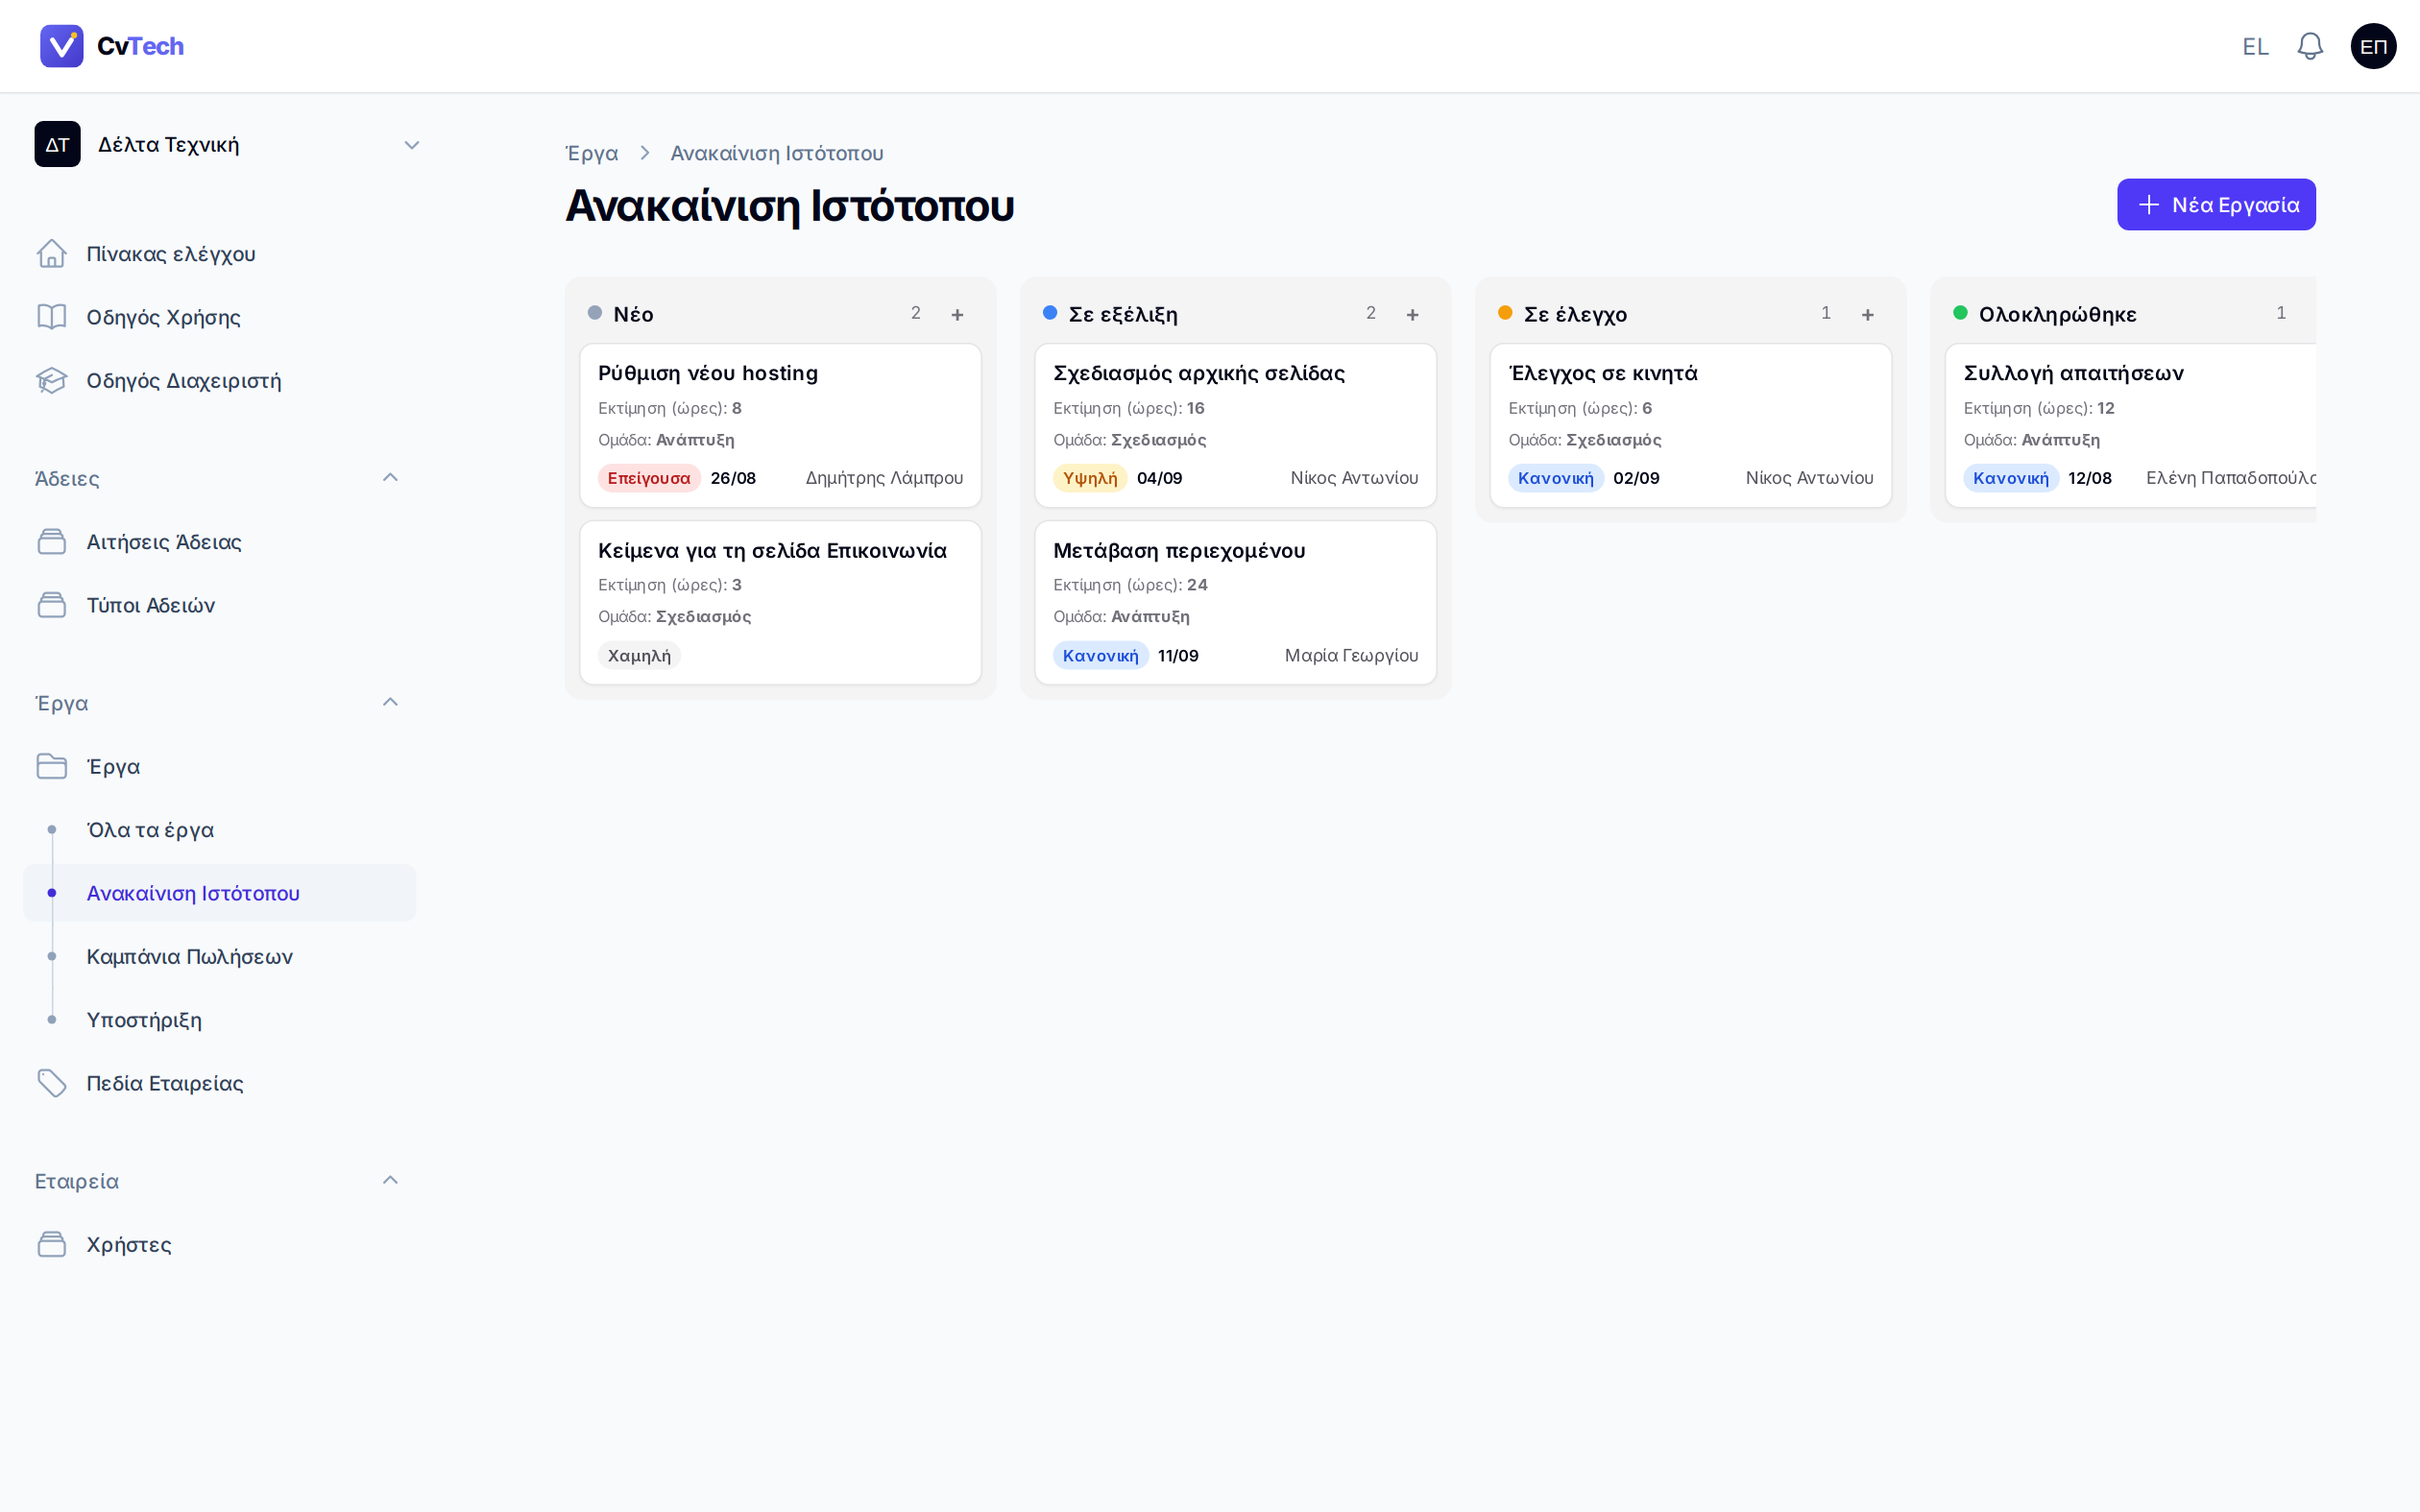
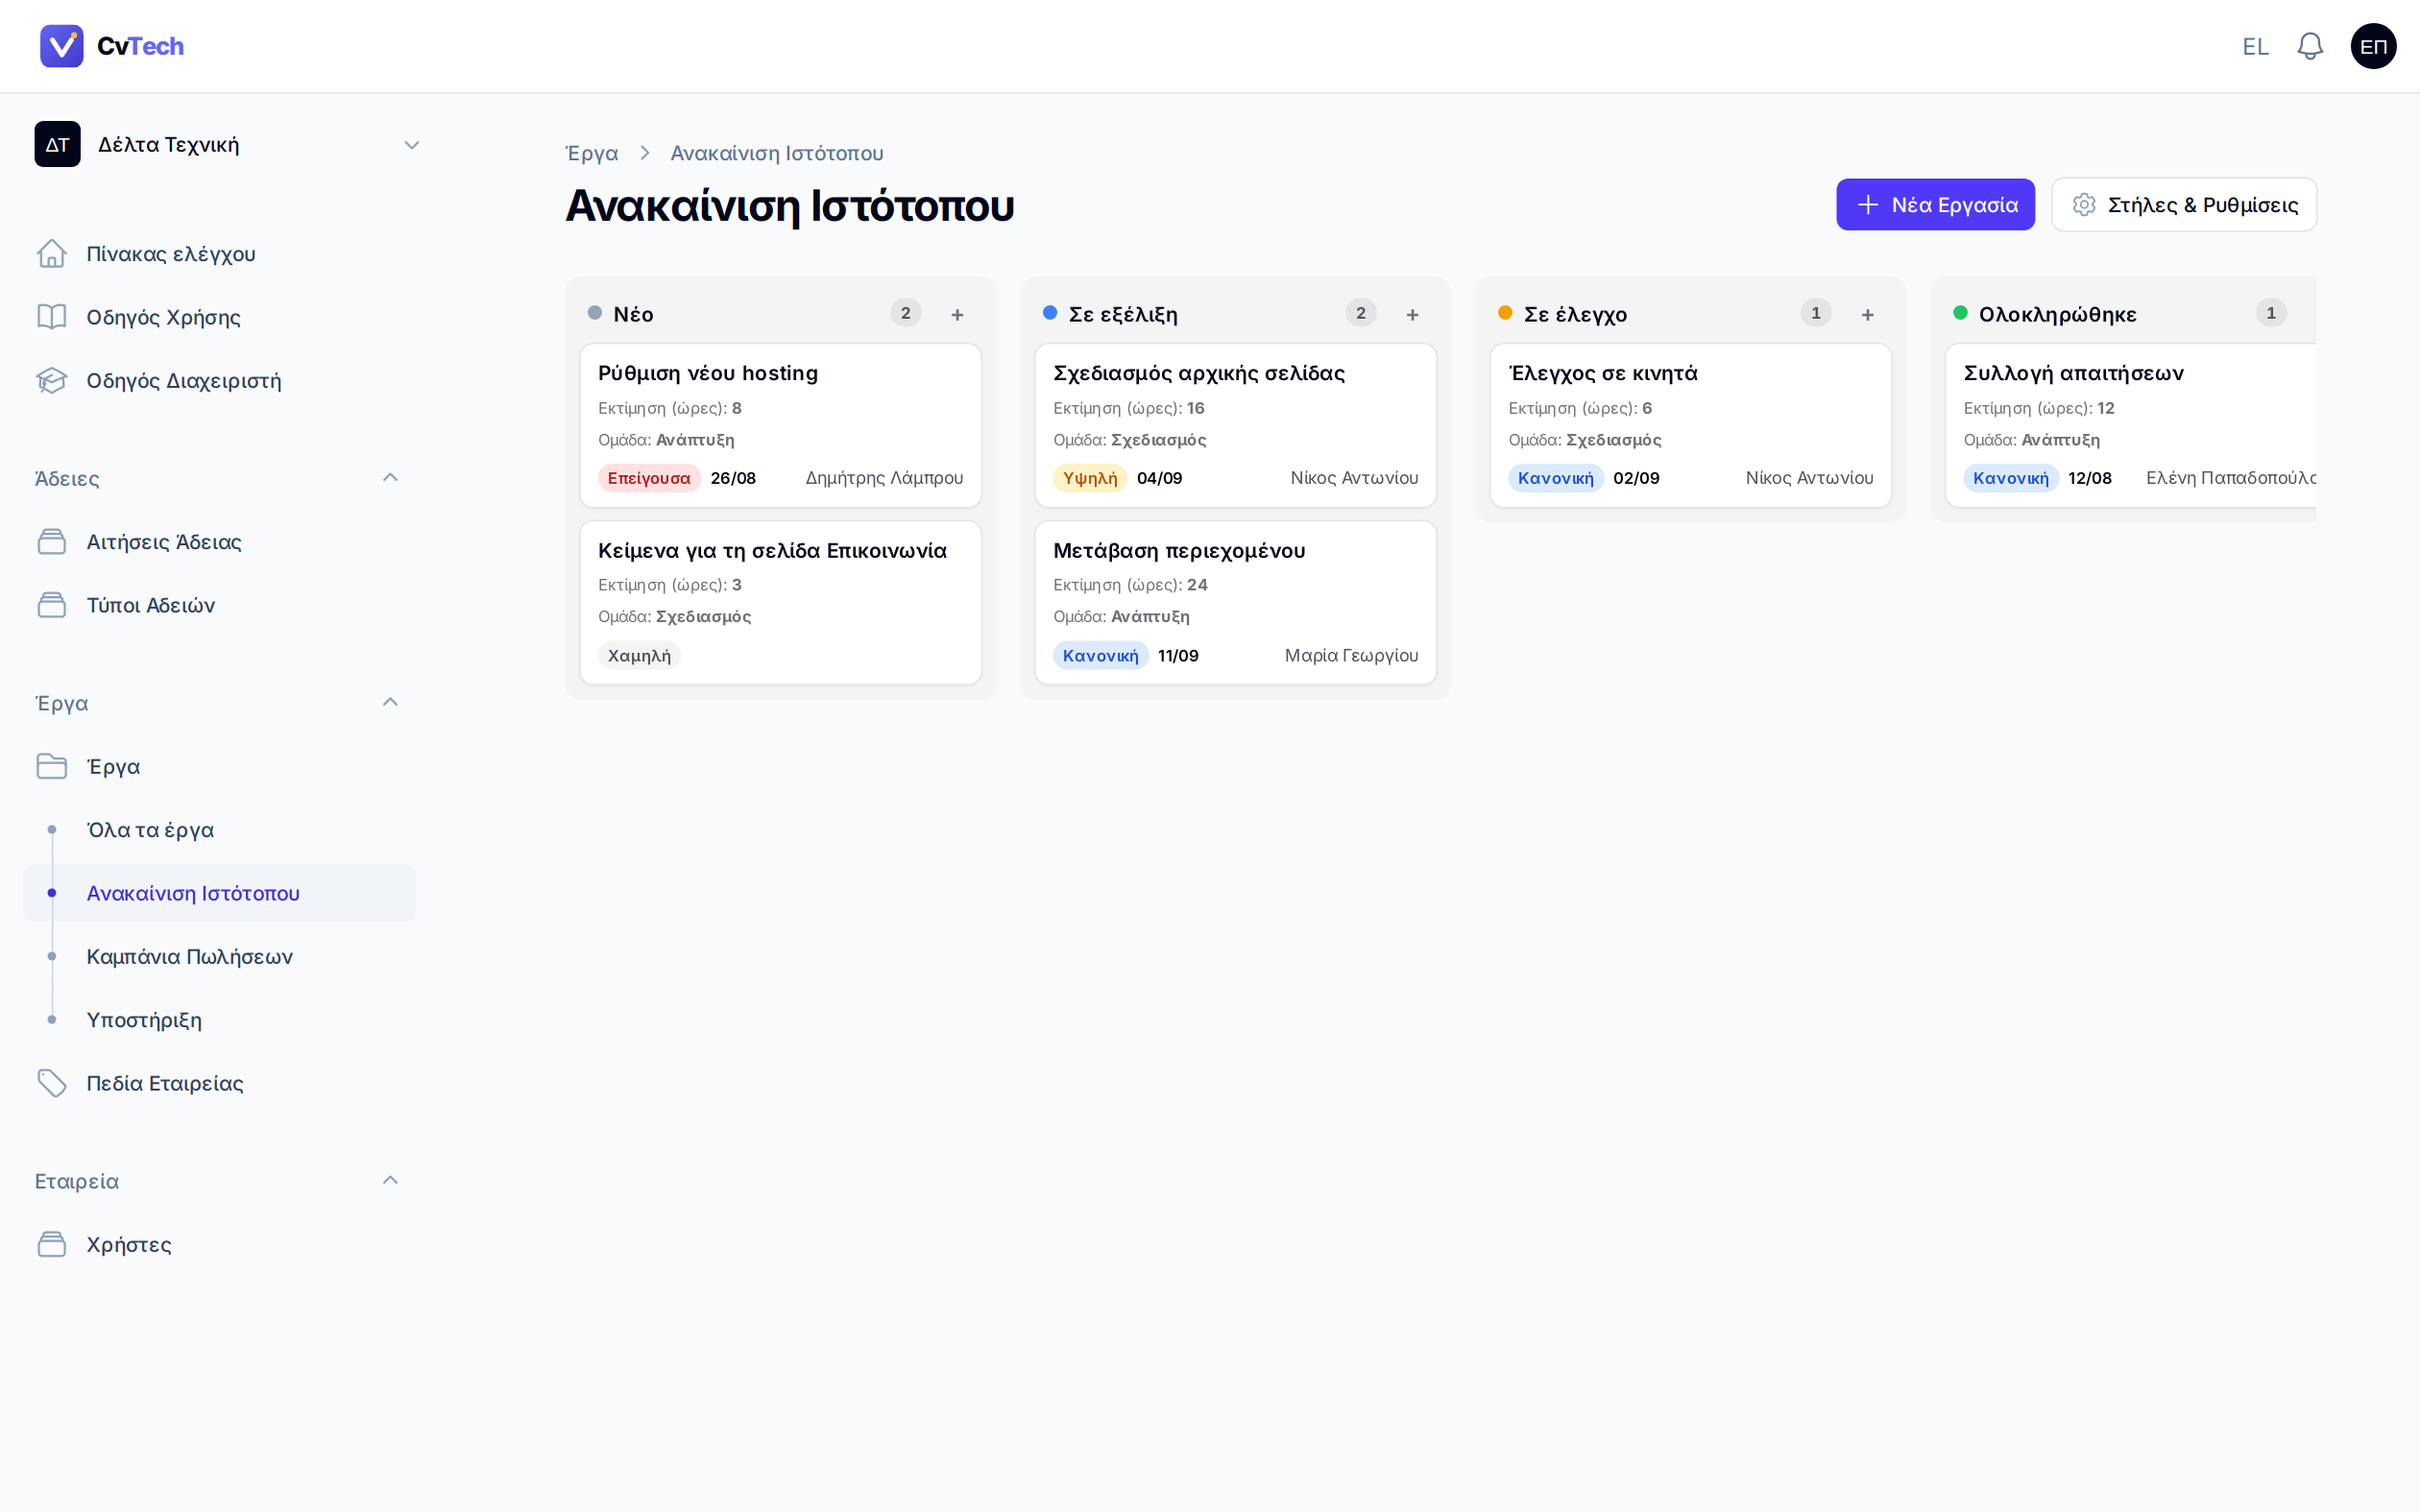
Make the column count a badge and the columns editor reachable
The count beside each column name was a bare number sitting against the
heading. It is now a pill, which reads as a count rather than as part of
the label.

The second half of this is not a new feature. Per-project columns have
worked since projects were built — Peachpal's two projects already run
different workflows, the platform board on the defaults and the support
board on Εισερχόμενο → Σε εξέλιξη → Σε αναμονή πελάτη → Επιλύθηκε. What
was missing was any way to find the editor.

Moving the sidebar straight to boards made that worse: reaching a
project's settings meant going to All projects, finding the row and
hovering for Edit. The board now carries a "Columns & Settings" button
that opens them directly, which is where somebody looking at a board
would expect to change what its columns are. The admin guide says so
explicitly, since a feature that exists but cannot be found amounts to
the same thing as one that does not.

Changed region(s): [[0.7429, 0.0933, 0.9595, 0.1556]]

diff --git a/resources/views/filament/pages/admin-guide.blade.php b/resources/views/filament/pages/admin-guide.blade.php
@@ -178,6 +178,7 @@
             <p>{{ __('Στη δημιουργία δίνεις όνομα, αναγνωριστικό, υπεύθυνο και χρώμα. Το αναγνωριστικό μπαίνει στο URL του έργου και δεν αλλάζει όταν μετονομάζεις το έργο, ώστε οι σύνδεσμοι που έχει μοιράσει η ομάδα να συνεχίζουν να δουλεύουν.') }}</p>
             <img src="{{ asset('img/kb/29-project-settings.png') }}" class="kb-shot" alt="Project settings">
             <p><strong>{{ __('Οι στήλες είναι δικές του.') }}</strong> {{ __('Κάθε νέο έργο ξεκινάει με τις προεπιλογές της εταιρείας — Νέο, Σε εξέλιξη, Σε έλεγχο, Ολοκληρώθηκε — και μετά τις αλλάζεις ελεύθερα. Μια ομάδα πωλήσεων θέλει Lead → Επαφή → Πρόταση → Κλείσιμο· δεν υπάρχει λόγος να δεσμεύεται στη ροή της ανάπτυξης.') }}</p>
+            <p><strong>{{ __('Πού τις αλλάζεις:') }}</strong> {{ __('από τον ίδιο τον πίνακα, με το κουμπί "Στήλες & Ρυθμίσεις" πάνω δεξιά. Ανοίγει τις ρυθμίσεις του έργου, όπου η καρτέλα "Στήλες Πίνακα" σου επιτρέπει να προσθέσεις, να μετονομάσεις, να χρωματίσεις και να αναδιατάξεις όσες στήλες θέλεις.') }}</p>
             <img src="{{ asset('img/kb/30-project-columns.png') }}" class="kb-shot" alt="Board columns for a project">
             <p>{{ __('Κάθε στήλη έχει δύο σημάνσεις:') }}</p>
             <ul>

diff --git a/resources/views/filament/resources/projects/pages/project-board.blade.php b/resources/views/filament/resources/projects/pages/project-board.blade.php
@@ -6,7 +6,13 @@
     .kb-col-head { display: flex; align-items: center; gap: 8px; padding: 4px 6px 10px 6px; }
     .kb-dot { width: 10px; height: 10px; border-radius: 999px; flex: 0 0 auto; }
     .kb-col-name { font-weight: 600; font-size: 14px; }
-    .kb-count { margin-left: auto; font-size: 12px; color: rgb(113 113 122); font-variant-numeric: tabular-nums; }
+    .kb-count {
+        margin-left: auto; min-width: 22px; padding: 2px 7px; border-radius: 999px;
+        background: rgb(228 228 231); color: rgb(82 82 91);
+        font-size: 11px; font-weight: 700; line-height: 1.5; text-align: center;
+        font-variant-numeric: tabular-nums;
+    }
+    .dark .kb-count { background: rgb(63 63 70); color: rgb(212 212 216); }
     .kb-list { display: flex; flex-direction: column; gap: 8px; min-height: 60px; }
     .kb-card {
         background: #fff; border: 1px solid rgb(228 228 231); border-radius: 10px;

diff --git a/app/Filament/Resources/Projects/Pages/ProjectBoard.php b/app/Filament/Resources/Projects/Pages/ProjectBoard.php
@@ -94,6 +94,17 @@ class ProjectBoard extends Page
     {
         return [
             $this->createTaskAction(),
+
+            // The columns and the fields of a board are edited on the project's
+            // settings page. Reaching it meant going back to the list and
+            // hunting for the row, which is a poor place to hide the one screen
+            // that decides what this board looks like.
+            Action::make('projectSettings')
+                ->label(__('Στήλες & Ρυθμίσεις'))
+                ->icon('heroicon-o-cog-6-tooth')
+                ->color('gray')
+                ->visible(fn () => ProjectResource::canEdit($this->getRecord()))
+                ->url(fn () => ProjectResource::getUrl('edit', ['record' => $this->getRecord()])),
         ];
     }
 
